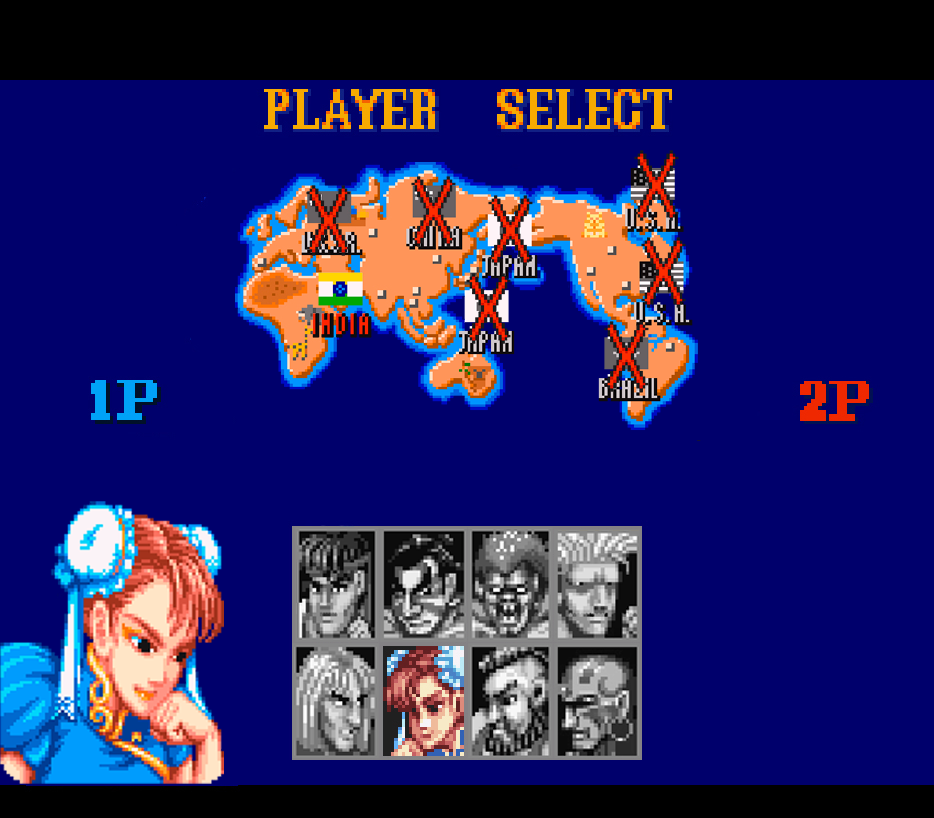
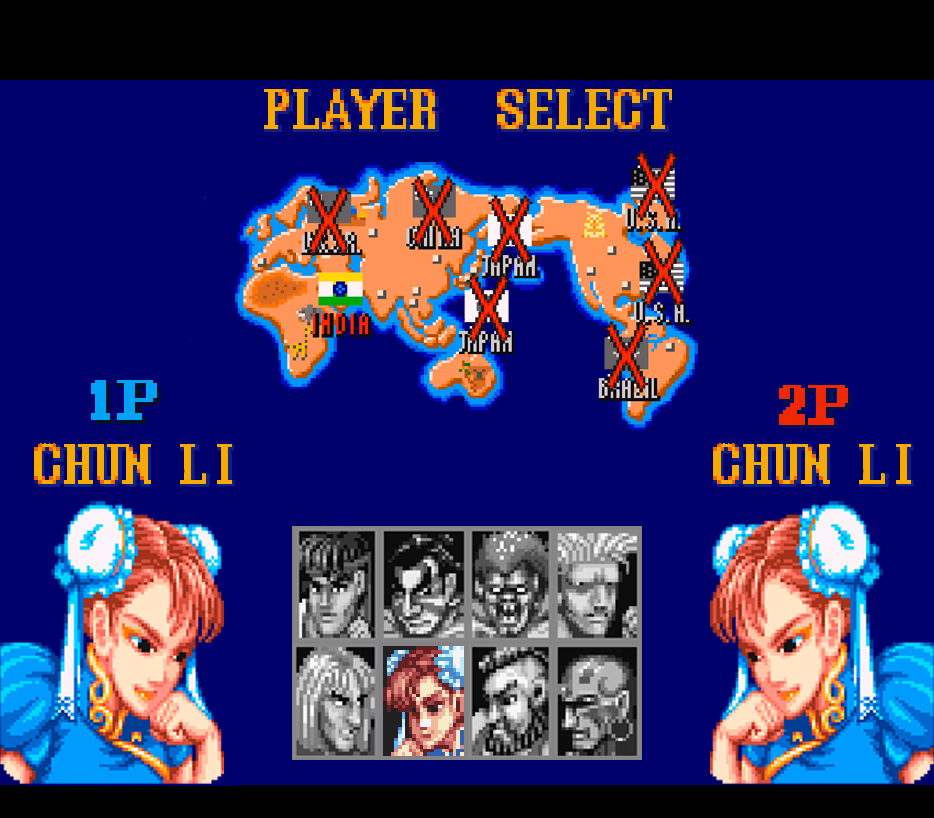
Character selection
Inputs added and controll added

Changed region(s): [[0.7452, 0.4584, 1.0, 0.978], [0.031, 0.5196, 0.2484, 0.6112]]

diff --git a/Street Fighter II/ModuleCharacterSelection.cpp b/Street Fighter II/ModuleCharacterSelection.cpp
@@ -18,18 +18,17 @@ ModuleCharacterSelection::ModuleCharacterSelection()
 	background.h = SCREEN_HEIGHT;
 	background.w = SCREEN_WIDTH;
 
-	//Map
-	Map.x = 53;
-	Map.y = 777;
-	Map.w = 1302;
-	Map.h = 73;
-
-
 	//P2Pointer
-
+	P2Pointer.x = 395;
+	P2Pointer.y = 311;
+	P2Pointer.w = 87;
+	P2Pointer.h = 133;
 
 	//P1Pointer
-
+	P1Pointer.x = 160;
+	P1Pointer.y = 311;
+	P1Pointer.w = 87;
+	P1Pointer.h = 133;
 }
 
 ModuleCharacterSelection::~ModuleCharacterSelection()
@@ -63,15 +62,45 @@ bool ModuleCharacterSelection::CleanUp()
 
 update_status ModuleCharacterSelection::Update()
 {
-
 	App->render->Blit(graphicsBack, 0, 0, &background);
-	App->render->Blit(graphicsUI, -340, 160, &Map);
 
-	/*if (App->input->keyboard[SDL_SCANCODE_RETURN] == KEY_DOWN || App->input->Pad1.button_state[SDL_CONTROLLER_BUTTON_START] == KEY_DOWN || App->input->Pad2.button_state[SDL_CONTROLLER_BUTTON_START] == KEY_DOWN) {
+	if (map == false)
+	{
+		if (hide == false)
+		{
+			App->render->Blit(graphicsUI, -340, 160, &P1Pointer);
+			App->render->Blit(graphicsUI, -340, 160, &P2Pointer);
+			hide = true;
+		}
+			
+	}
+	else
+	{
+		if (hide == false)
+		{
+			App->render->Blit(graphicsUI, -340, 160, &P1Pointer);
+			hide = true;
+		}	
+	}
+	
+	if (p1 == true && p2 == true)
+	{
+		map = true;
+	}
+
+	if (App->input->keyboard[SDL_SCANCODE_F11] == KEY_DOWN || App->input->Pad1.button_state[SDL_CONTROLLER_BUTTON_A] == KEY_DOWN) {
+		p1 = true;
+	}
+
+	if (App->input->keyboard[SDL_SCANCODE_F12] == KEY_DOWN  || App->input->Pad2.button_state[SDL_CONTROLLER_BUTTON_A] == KEY_DOWN) {
+		p2 = true;
+	}
+
+	if ((App->input->keyboard[SDL_SCANCODE_SPACE] == KEY_DOWN || App->input->Pad1.button_state[SDL_CONTROLLER_BUTTON_A] == KEY_DOWN) && map==true) {		
 		App->fade->FadeToBlack(App->selectionScene, App->scene_dhalsim, 2.0f);
 		App->audio->PlayChunk(start_sound, 0);
 		App->audio->StopMusic(250);
-	}*/
+	}
 
 	return UPDATE_CONTINUE;
 }

diff --git a/Street Fighter II/ModuleCharacterSelection.h b/Street Fighter II/ModuleCharacterSelection.h
@@ -19,12 +19,11 @@ public:
 
 public:
 
-	SDL_Rect Map;
 	SDL_Rect background;
 	SDL_Rect P1Pointer;
 	SDL_Rect P2Pointer;
-	SDL_Rect Cross;
 
+	bool hide = false,map=false,p1=false,p2=false;
 
 	SDL_Texture* graphicsUI = nullptr;
 	SDL_Texture* graphicsBack = nullptr;
